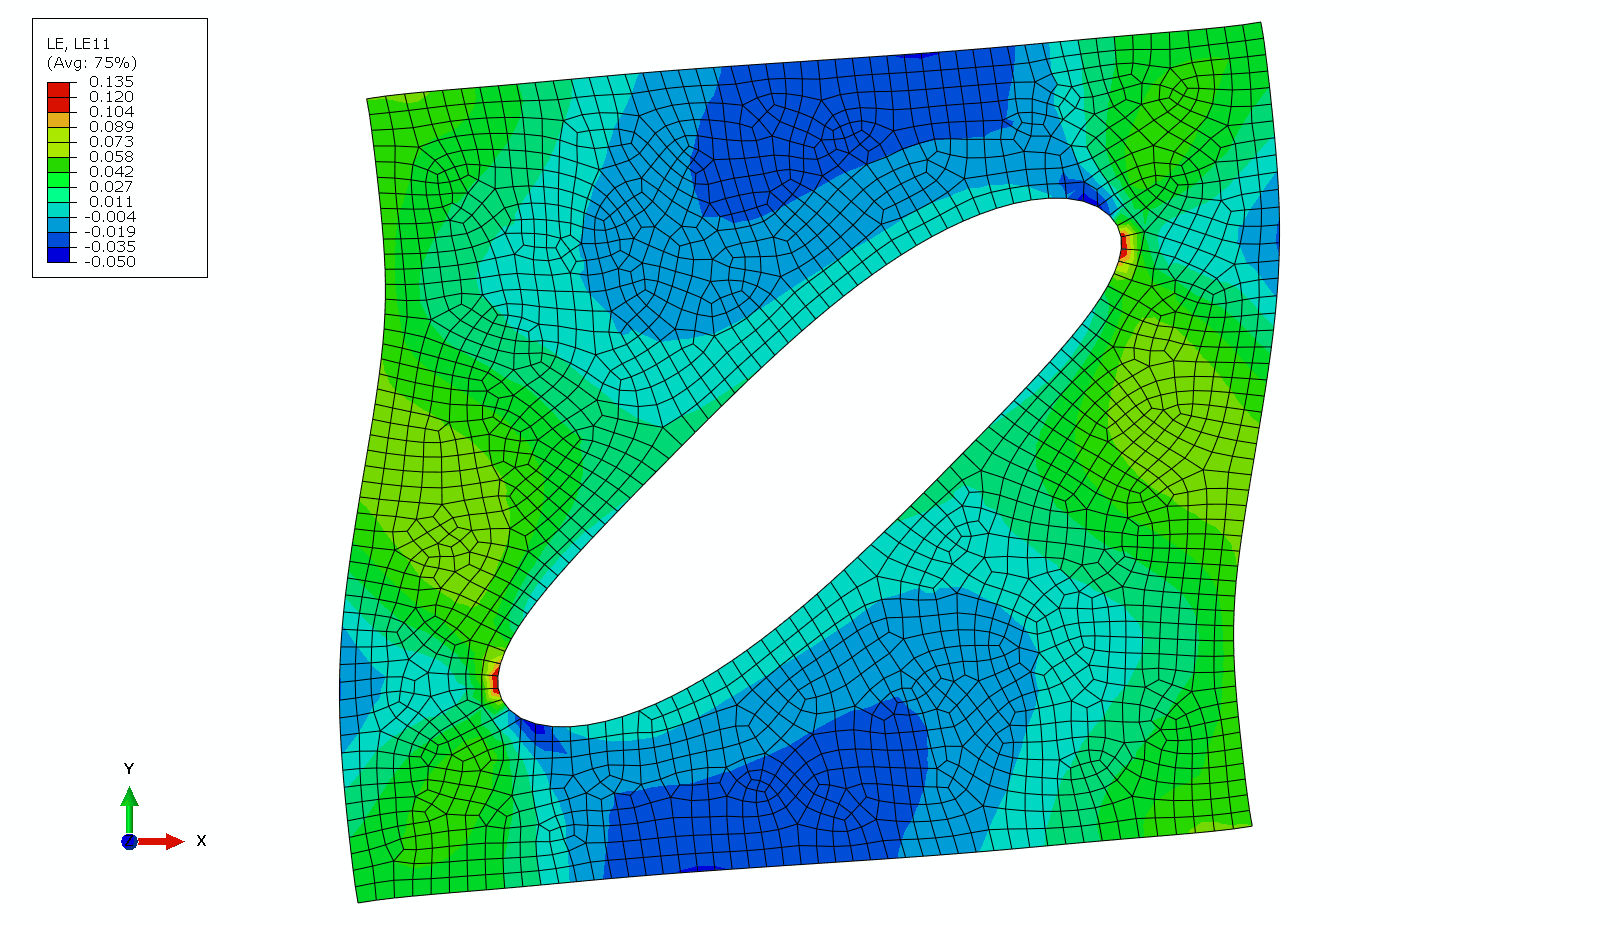
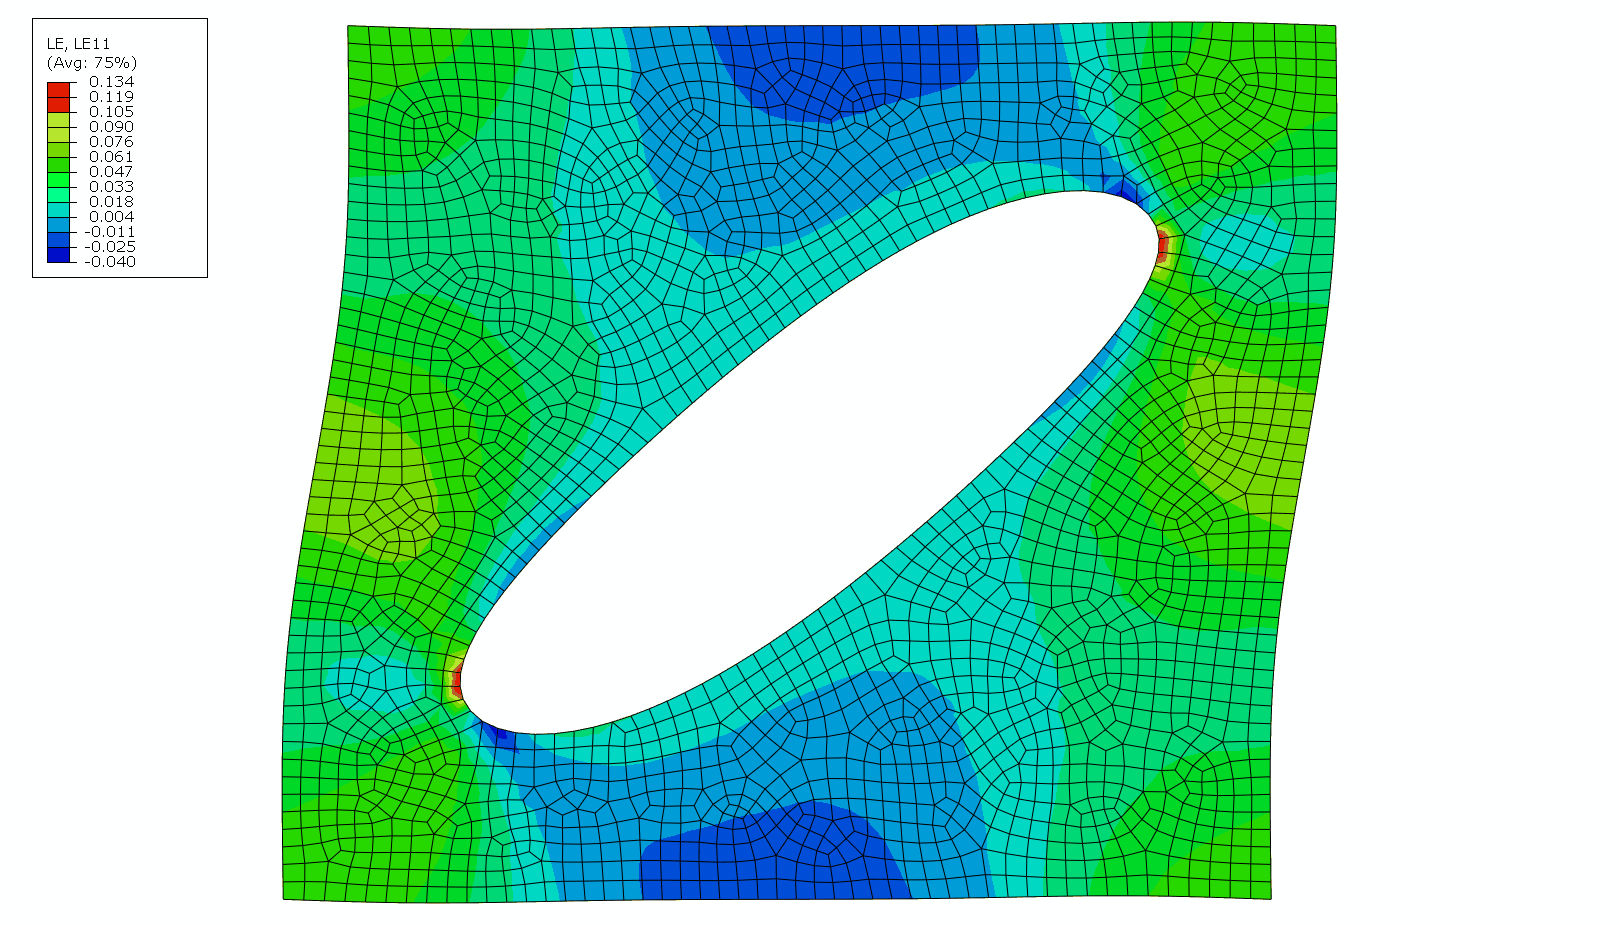
2018-03-23

diff --git a/_posts/2018-03-19-Periodic-Boundary-Conditions.md b/_posts/2018-03-19-Periodic-Boundary-Conditions.md
@@ -10,34 +10,45 @@ cover-image:
   <small>周期性结构</small>
 </div>
 
-以上述2D结构为例具体介绍周期边界条件的设置。假设该结构在水平方向上（也即x方向）施加位移载荷，而在其他两个方向没有载荷。把中间的一块区域提取出来作为结构的RVE，该单元的四个边界上需要施加相应的边界条件：
+以上述2D结构为例具体介绍周期边界条件的设置。假设该结构在水平方向上（也即x方向）施加应变载荷 $\epsilon$，而在其他两个方向没有载荷。把中间的一块区域提取出来作为结构的RVE，该单元的四个边界上需要施加相应的边界条件：
 
-* 在x方向上的边界上 $\Gamma_x$ 存在位移载荷约束；
-* 在y方向上的边界上 $\Gamma_y$ 存在周期边界。
+* 在x方向上的边界上 $\Gamma_l$ 和 $\Gamma_r$ 存在应变载荷；
+* 在y方向上的边界上 $\Gamma_b$ 和 $\Gamma_t$ 存在周期边界。
 
-假设在 $\Gamma_x$ 上的水平位移为 $u_x^{left}$ 和  $u_x^{right}$，在 $\Gamma_y$ 上的水平位移为 $u_y^{bottom}$ 和 $u_y^{top}$，上述两个条件可以写为：
-
-<div class="formula">
-\begin{equation*}
-u_x^{left}-u_x^{right}-u_x^{RefX}=0\\
-u_y^{bottom}-u_y^{top}-u_y^{RefY}=0
-\end{equation*}
-</div>
-
-其中 $u_x^{RefX}$ 和 $u_y^{RefY}$ 是两个参考点RefX和RefY在水平方向和垂直方向上的位移。位移载荷最后会施加在这两个参考点上，即
+假设在 $\Gamma_l$ 和 $\Gamma_r$ 边界上配对的两点为 $i$ 和 $j$，其位移分别为 $u_i$，$v_i$，$u_j$ 和 $v_j$，则上述第一个条件可以写为：
 
 <div class="formula">
 \begin{equation*}
-u_x^{RefX}=u\\
-u_y^{RefY}=0
+u_i-u_j=u_{Ref1}\\
+v_i-v_j=v_{Ref1}
 \end{equation*}
 </div>
+
+假设在 $\Gamma_b$ 和 $\Gamma_t$ 边界上配对的两点为 $k$ 和 $l$，其位移分别为 $u_k$，$v_k$，$u_l$ 和 $v_l$，则上述第二个条件可以写为：
+
+<div class="formula">
+\begin{equation*}
+u_k-u_l=u_{Ref2}\\
+v_k-v_l=v_{Ref2}
+\end{equation*}
+</div>
+
+其中 $u_{Ref1}$，$v_{Ref1}$，$u_{Ref2}$ 和 $v_{Ref2}$ 是两个参考点Ref1和Ref2的位移。由于在x方向上存在应变载荷，所以两个参考点的x方向位移可以根据应变求得
+
+<div class="formula">
+\begin{equation*}
+u_{Ref1}=\epsilon*(x_i-x_j)\\
+u_{Ref2}=\epsilon*(x_k-x_l)
+\end{equation*}
+</div>
+
+上述x方向位移载荷施加在两个参考点上，由于在y方向上没有位移约束，所以参考点的y方向位移没有限制。
 
 在Abaqus中设置上述边界条件有如下步骤：
 
 * 确定两个参考点；
 * 确定四个边界上的节点编号，分别储存在left，right，bottom和top四个数组中；
-* 在对应的两个边界上例如left和right，以及bottom和top中，寻找距离最近的两个节点作为一对，设置边界条件。具体方法是采用双重循环，在left中任取一个节点M，然后遍历right中的所有节点，找到和节点M距离最近的节点，即为节点N，然后设置边界条件 $u_x^{left-M}-u_x^{right-N}-u_x^{RefX}=0$。bottom和top也采用类似操作；
+* 在对应的两个边界上例如left和right，以及bottom和top中，寻找距离最近的两个节点作为一对，设置边界条件。具体方法是采用双重循环，在left中任取一个节点M，然后遍历right中的所有节点，找到和节点M距离最近的节点，即为与之配对的节点N。bottom和top也采用类似操作；
 * 在load模块中设置两个参考点的位移约束。
 
 ## 2D算例
@@ -59,7 +70,7 @@ u_y^{RefY}=0
   <small>整体结构的应变</small>
 </div>
 
-其中心的单元的变形如下图所示：
+其中心区域的变形如下图所示：
 
 <div class="figure">
   <img src="{{ site.baseurl }}/img/Total-LE11-Center.jpg"> <br />
